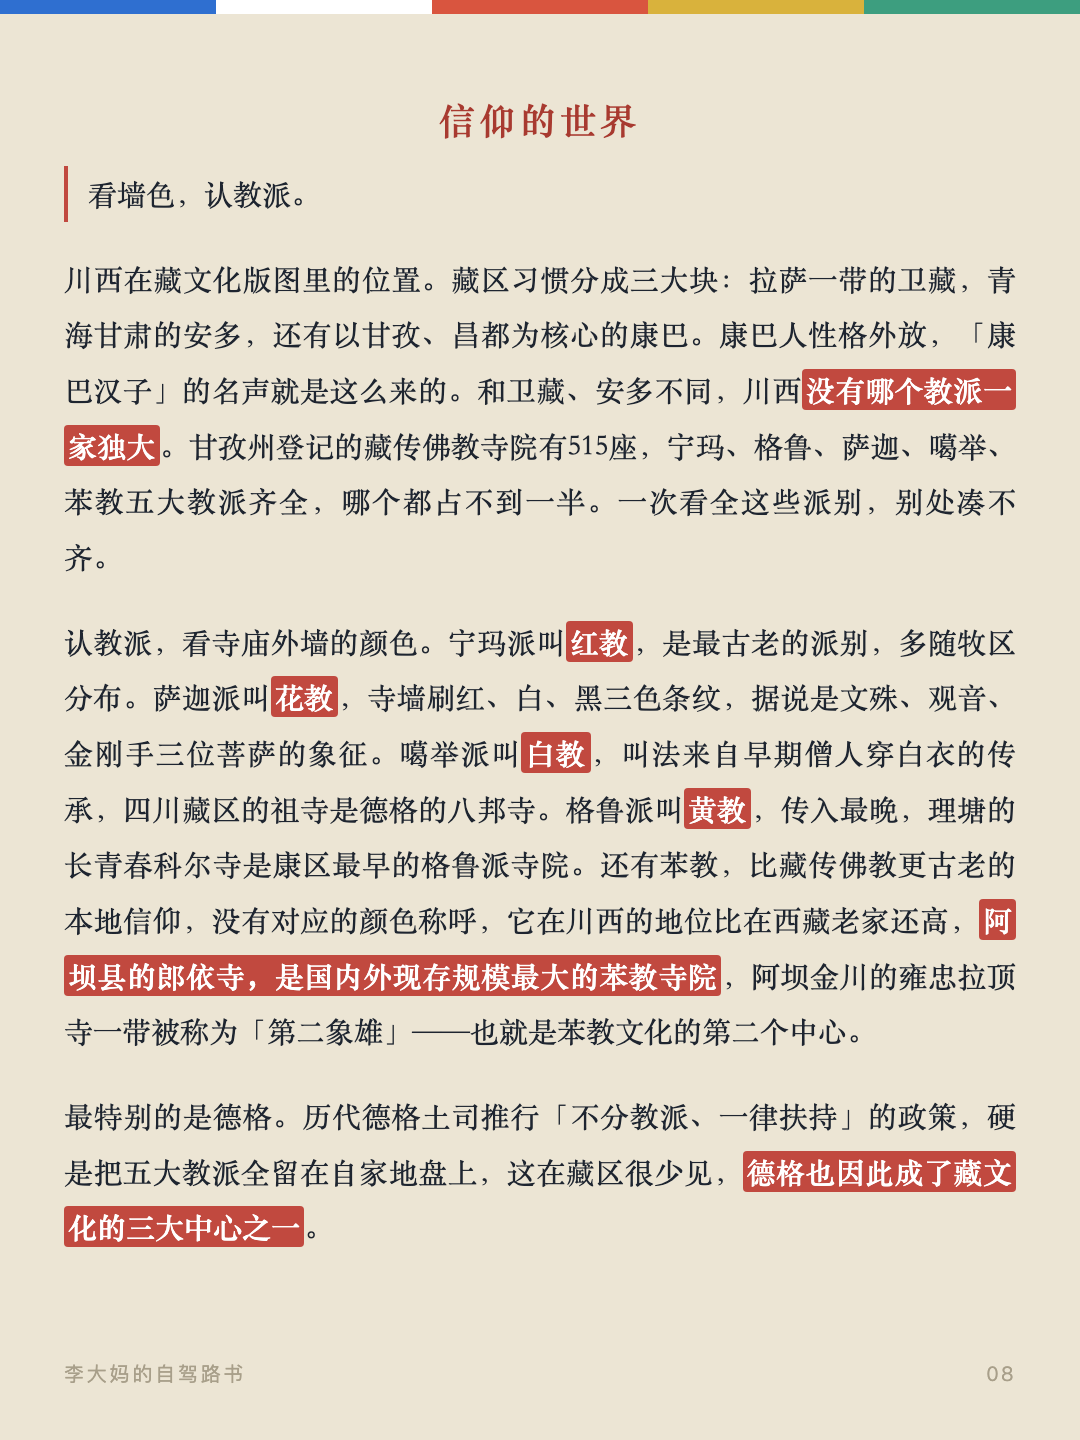
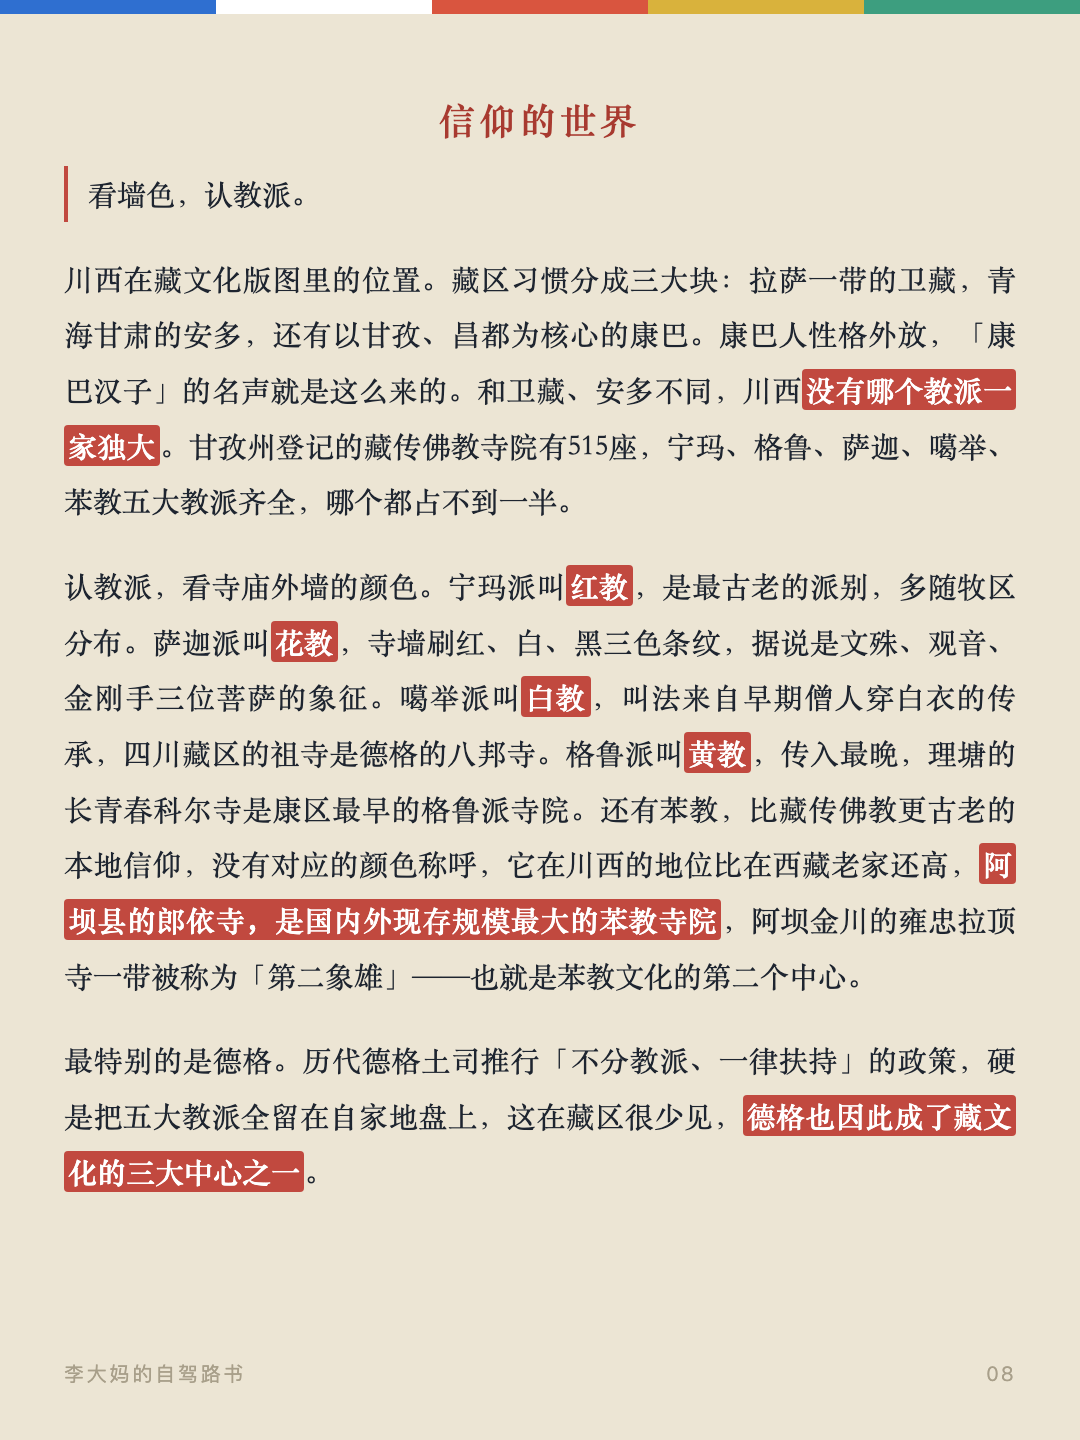
信仰世界删除'一次看全这些派别，别处凑不齐'

Changed region(s): [[0.0611, 0.3438, 0.9472, 0.875]]

diff --git a/cards.html b/cards.html
@@ -135,7 +135,7 @@
 
 <div class="card" id="card7"><div class="flag" aria-hidden="true"><span style="background:var(--flag-blue)"></span><span style="background:var(--flag-white)"></span><span style="background:var(--flag-red)"></span><span style="background:var(--flag-yellow)"></span><span style="background:var(--flag-green)"></span></div><div class="card__inner"><h3>充电</h3><p>川西这两年变化快。2025年6月甘孜州18个公路养护站和14个快充站投运，理塘到稻城段充电桩最大间距125公里；318沿线超300个充电桩，快充占七成以上。密度从东往西递减：成都到康定每30到50公里一个快充；康定、新都桥、雅江、理塘每80到150公里；理塘往稻城亚丁、新都桥往塔公八美每150到200公里。冷嘎措、格聂、若尔盖穿越段还是盲区。实际体验要打折：约一成五的桩故障或被燃油车占位，节假日热门站排队可能超一小时。高原续航缩水约三四成。<strong>电量低于三成就找桩</strong>，进景区前在县城充到八成以上。查桩用特来电、国网e充电、星星充电的App，或高德的新能源模式。</p><h3>封路信息</h3><p>两类封路最常见：汛期6到8月塌方落石，抢修期间半幅放行或管制；冬季11月到次年3、4月冬管，比如九绵高速夜间20点到次日8点禁行，夹金山段整个冬天双向禁行，理小路冬天全段禁行。截至2026年8月17日，阿坝州正实行货车临时管制（过境4轴及以上货车白天7点到21点禁行），同时处在汛期，山洪预警可能随时发布。<strong>G317马尔康到观音桥段，自2025年11月红旗特大桥垮塌后一直中断</strong>，绕行走壤塘、阿坝、红原方向，约多3小时；官方便道工程预计2026年9月底至10月初通车。官方渠道：阿坝州政府官网阿坝路况专栏、四川发布和成都发布公众号、高速救援12122、报警96122。<strong>官方路况和高德，出发当天交叉核对</strong>。</p><div class="card__foot"><span>李大妈的自驾路书</span><span>07</span></div></div></div>
 
-<div class="card" id="card8"><div class="flag" aria-hidden="true"><span style="background:var(--flag-blue)"></span><span style="background:var(--flag-white)"></span><span style="background:var(--flag-red)"></span><span style="background:var(--flag-yellow)"></span><span style="background:var(--flag-green)"></span></div><div class="card__inner"><h2>信仰的世界</h2><p class="card__lead">看墙色，认教派。</p><p>川西在藏文化版图里的位置。藏区习惯分成三大块：拉萨一带的卫藏，青海甘肃的安多，还有以甘孜、昌都为核心的康巴。康巴人性格外放，「康巴汉子」的名声就是这么来的。和卫藏、安多不同，川西<strong>没有哪个教派一家独大</strong>。甘孜州登记的藏传佛教寺院有515座，宁玛、格鲁、萨迦、噶举、苯教五大教派齐全，哪个都占不到一半。一次看全这些派别，别处凑不齐。</p><p>认教派，看寺庙外墙的颜色。宁玛派叫<strong>红教</strong>，是最古老的派别，多随牧区分布。萨迦派叫<strong>花教</strong>，寺墙刷红、白、黑三色条纹，据说是文殊、观音、金刚手三位菩萨的象征。噶举派叫<strong>白教</strong>，叫法来自早期僧人穿白衣的传承，四川藏区的祖寺是德格的八邦寺。格鲁派叫<strong>黄教</strong>，传入最晚，理塘的长青春科尔寺是康区最早的格鲁派寺院。还有苯教，比藏传佛教更古老的本地信仰，没有对应的颜色称呼，它在川西的地位比在西藏老家还高，<strong>阿坝县的郎依寺，是国内外现存规模最大的苯教寺院</strong>，阿坝金川的雍忠拉顶寺一带被称为「第二象雄」——也就是苯教文化的第二个中心。</p><p>最特别的是德格。历代德格土司推行「不分教派、一律扶持」的政策，硬是把五大教派全留在自家地盘上，这在藏区很少见，<strong>德格也因此成了藏文化的三大中心之一</strong>。</p><div class="card__foot"><span>李大妈的自驾路书</span><span>08</span></div></div></div>
+<div class="card" id="card8"><div class="flag" aria-hidden="true"><span style="background:var(--flag-blue)"></span><span style="background:var(--flag-white)"></span><span style="background:var(--flag-red)"></span><span style="background:var(--flag-yellow)"></span><span style="background:var(--flag-green)"></span></div><div class="card__inner"><h2>信仰的世界</h2><p class="card__lead">看墙色，认教派。</p><p>川西在藏文化版图里的位置。藏区习惯分成三大块：拉萨一带的卫藏，青海甘肃的安多，还有以甘孜、昌都为核心的康巴。康巴人性格外放，「康巴汉子」的名声就是这么来的。和卫藏、安多不同，川西<strong>没有哪个教派一家独大</strong>。甘孜州登记的藏传佛教寺院有515座，宁玛、格鲁、萨迦、噶举、苯教五大教派齐全，哪个都占不到一半。</p><p>认教派，看寺庙外墙的颜色。宁玛派叫<strong>红教</strong>，是最古老的派别，多随牧区分布。萨迦派叫<strong>花教</strong>，寺墙刷红、白、黑三色条纹，据说是文殊、观音、金刚手三位菩萨的象征。噶举派叫<strong>白教</strong>，叫法来自早期僧人穿白衣的传承，四川藏区的祖寺是德格的八邦寺。格鲁派叫<strong>黄教</strong>，传入最晚，理塘的长青春科尔寺是康区最早的格鲁派寺院。还有苯教，比藏传佛教更古老的本地信仰，没有对应的颜色称呼，它在川西的地位比在西藏老家还高，<strong>阿坝县的郎依寺，是国内外现存规模最大的苯教寺院</strong>，阿坝金川的雍忠拉顶寺一带被称为「第二象雄」——也就是苯教文化的第二个中心。</p><p>最特别的是德格。历代德格土司推行「不分教派、一律扶持」的政策，硬是把五大教派全留在自家地盘上，这在藏区很少见，<strong>德格也因此成了藏文化的三大中心之一</strong>。</p><div class="card__foot"><span>李大妈的自驾路书</span><span>08</span></div></div></div>
 
 <div class="card" id="card9"><div class="flag" aria-hidden="true"><span style="background:var(--flag-blue)"></span><span style="background:var(--flag-white)"></span><span style="background:var(--flag-red)"></span><span style="background:var(--flag-yellow)"></span><span style="background:var(--flag-green)"></span></div><div class="card__inner"><p>路边的符号，各有含义。经幡也叫风马旗，五种颜色对应蓝天、白云、红火、江河、大地，挂在山顶风口，<strong>藏人相信风吹动一次等于诵经一次</strong>。玛尼堆是刻了六字真言的石块堆，路人经过会念着真言添一块石头，不搬走当纪念品。白塔源于古印度的覆钵式佛塔，路过捡块石头放上去，或献条哈达许愿。德格佐钦寺的白塔是尼泊尔风格，方形塔顶四面画着佛眼，<strong>和加德满都的博达哈大佛塔同一形制</strong>，博达哈是全世界最大的覆钵塔。转经筒里装着经文，转一圈等于念诵一遍，藏人转经廊、转佛塔、转寺院都是这个逻辑。六字真言「唵嘛呢叭咪吽」是观世音菩萨的总持咒，被看作雪域佛法最根本的念诵。</p><p>和信仰打交道，有几条规矩：<strong>绕行一律顺时针，只有苯教是逆时针</strong>。磕长头是身敬、语敬、意敬三者合一，额头叩地的瞬间，心里同时念咒、观想，这是他们能磕几千公里的原因。煨桑是烧香柏枝，敬献给神佛的香火，也是祈愿的仪式。献哈达要看对象：白色最普遍，黄色献给活佛和高僧，五彩哈达被视为菩萨的衣裳，只在隆重场合用。<strong>哈达只递到对方手里，不能挂脖子上，只有长辈给晚辈才往脖子上搭</strong>。天葬是藏人把遗体布施给神鹰，被认为是最高的舍身布施，<strong>全程严禁围观、拍照，当地有明文规定，连打听都不要</strong>。另有几条硬规矩：<strong>不摸别人的头，佛像、唐卡、经书不指</strong>，非要指就五指并拢、手心朝上，不进人家供奉的佛堂，不取献给塔上的供品，过门槛不踩。</p><div class="card__foot"><span>李大妈的自驾路书</span><span>09</span></div></div></div>
 

diff --git a/index.html b/index.html
@@ -263,7 +263,7 @@
     <section class="part" id="faith">
       <div class="part__head"><span class="part__no" aria-hidden="true">四</span><h2>信仰的世界</h2></div>
       <p class="part__lead">看墙色，认教派。</p>
-      <p>川西在藏文化版图里的位置。藏区习惯分成三大块：拉萨一带的卫藏，青海甘肃的安多，还有以甘孜、昌都为核心的康巴。康巴人性格外放，「康巴汉子」的名声就是这么来的。和卫藏、安多不同，川西<strong>没有哪个教派一家独大</strong>。甘孜州登记的藏传佛教寺院有515座，宁玛、格鲁、萨迦、噶举、苯教五大教派齐全，哪个都占不到一半。一次看全这些派别，别处凑不齐。</p>
+      <p>川西在藏文化版图里的位置。藏区习惯分成三大块：拉萨一带的卫藏，青海甘肃的安多，还有以甘孜、昌都为核心的康巴。康巴人性格外放，「康巴汉子」的名声就是这么来的。和卫藏、安多不同，川西<strong>没有哪个教派一家独大</strong>。甘孜州登记的藏传佛教寺院有515座，宁玛、格鲁、萨迦、噶举、苯教五大教派齐全，哪个都占不到一半。</p>
       <p>认教派，看寺庙外墙的颜色。宁玛派叫<strong>红教</strong>，是最古老的派别，多随牧区分布。萨迦派叫<strong>花教</strong>，寺墙刷红、白、黑三色条纹，据说是文殊、观音、金刚手三位菩萨的象征。噶举派叫<strong>白教</strong>，叫法来自早期僧人穿白衣的传承，四川藏区的祖寺是德格的八邦寺。格鲁派叫<strong>黄教</strong>，传入最晚，理塘的长青春科尔寺是康区最早的格鲁派寺院。还有苯教，比藏传佛教更古老的本地信仰，没有对应的颜色称呼，它在川西的地位比在西藏老家还高，<strong>阿坝县的郎依寺，是国内外现存规模最大的苯教寺院</strong>，阿坝金川的雍忠拉顶寺一带被称为「第二象雄」——也就是苯教文化的第二个中心。</p>
       <p>最特别的是德格。历代德格土司推行「不分教派、一律扶持」的政策，硬是把五大教派全留在自家地盘上，这在藏区很少见，<strong>德格也因此成了藏文化的三大中心之一</strong>。</p>
       <p>路边的符号，各有含义。经幡也叫风马旗，五种颜色对应蓝天、白云、红火、江河、大地，挂在山顶风口，<strong>藏人相信风吹动一次等于诵经一次</strong>。玛尼堆是刻了六字真言的石块堆，路人经过会念着真言添一块石头，不搬走当纪念品。白塔源于古印度的覆钵式佛塔，路过捡块石头放上去，或献条哈达许愿。德格佐钦寺的白塔是尼泊尔风格，方形塔顶四面画着佛眼，<strong>和加德满都的博达哈大佛塔同一形制</strong>，博达哈是全世界最大的覆钵塔。转经筒里装着经文，转一圈等于念诵一遍，藏人转经廊、转佛塔、转寺院都是这个逻辑。六字真言「唵嘛呢叭咪吽」是观世音菩萨的总持咒，被看作雪域佛法最根本的念诵。</p>

diff --git a/gen_cards.py b/gen_cards.py
@@ -61,7 +61,7 @@ BODY_STREAM = [
   ('p', '两类封路最常见：汛期6到8月塌方落石，抢修期间半幅放行或管制；冬季11月到次年3、4月冬管，比如九绵高速夜间20点到次日8点禁行，夹金山段整个冬天双向禁行，理小路冬天全段禁行。截至2026年8月17日，阿坝州正实行货车临时管制（过境4轴及以上货车白天7点到21点禁行），同时处在汛期，山洪预警可能随时发布。<strong>G317马尔康到观音桥段，自2025年11月红旗特大桥垮塌后一直中断</strong>，绕行走壤塘、阿坝、红原方向，约多3小时；官方便道工程预计2026年9月底至10月初通车。官方渠道：阿坝州政府官网阿坝路况专栏、四川发布和成都发布公众号、高速救援12122、报警96122。<strong>官方路况和高德，出发当天交叉核对</strong>。'),
   ('h2', '信仰的世界'),
   ('lead', '看墙色，认教派。'),
-  ('p', '川西在藏文化版图里的位置。藏区习惯分成三大块：拉萨一带的卫藏，青海甘肃的安多，还有以甘孜、昌都为核心的康巴。康巴人性格外放，「康巴汉子」的名声就是这么来的。和卫藏、安多不同，川西<strong>没有哪个教派一家独大</strong>。甘孜州登记的藏传佛教寺院有515座，宁玛、格鲁、萨迦、噶举、苯教五大教派齐全，哪个都占不到一半。一次看全这些派别，别处凑不齐。'),
+  ('p', '川西在藏文化版图里的位置。藏区习惯分成三大块：拉萨一带的卫藏，青海甘肃的安多，还有以甘孜、昌都为核心的康巴。康巴人性格外放，「康巴汉子」的名声就是这么来的。和卫藏、安多不同，川西<strong>没有哪个教派一家独大</strong>。甘孜州登记的藏传佛教寺院有515座，宁玛、格鲁、萨迦、噶举、苯教五大教派齐全，哪个都占不到一半。'),
   ('p', '认教派，看寺庙外墙的颜色。宁玛派叫<strong>红教</strong>，是最古老的派别，多随牧区分布。萨迦派叫<strong>花教</strong>，寺墙刷红、白、黑三色条纹，据说是文殊、观音、金刚手三位菩萨的象征。噶举派叫<strong>白教</strong>，叫法来自早期僧人穿白衣的传承，四川藏区的祖寺是德格的八邦寺。格鲁派叫<strong>黄教</strong>，传入最晚，理塘的长青春科尔寺是康区最早的格鲁派寺院。还有苯教，比藏传佛教更古老的本地信仰，没有对应的颜色称呼，它在川西的地位比在西藏老家还高，<strong>阿坝县的郎依寺，是国内外现存规模最大的苯教寺院</strong>，阿坝金川的雍忠拉顶寺一带被称为「第二象雄」——也就是苯教文化的第二个中心。'),
   ('p', '最特别的是德格。历代德格土司推行「不分教派、一律扶持」的政策，硬是把五大教派全留在自家地盘上，这在藏区很少见，<strong>德格也因此成了藏文化的三大中心之一</strong>。'),
   ('p', '路边的符号，各有含义。经幡也叫风马旗，五种颜色对应蓝天、白云、红火、江河、大地，挂在山顶风口，<strong>藏人相信风吹动一次等于诵经一次</strong>。玛尼堆是刻了六字真言的石块堆，路人经过会念着真言添一块石头，不搬走当纪念品。白塔源于古印度的覆钵式佛塔，路过捡块石头放上去，或献条哈达许愿。德格佐钦寺的白塔是尼泊尔风格，方形塔顶四面画着佛眼，<strong>和加德满都的博达哈大佛塔同一形制</strong>，博达哈是全世界最大的覆钵塔。转经筒里装着经文，转一圈等于念诵一遍，藏人转经廊、转佛塔、转寺院都是这个逻辑。六字真言「唵嘛呢叭咪吽」是观世音菩萨的总持咒，被看作雪域佛法最根本的念诵。'),
